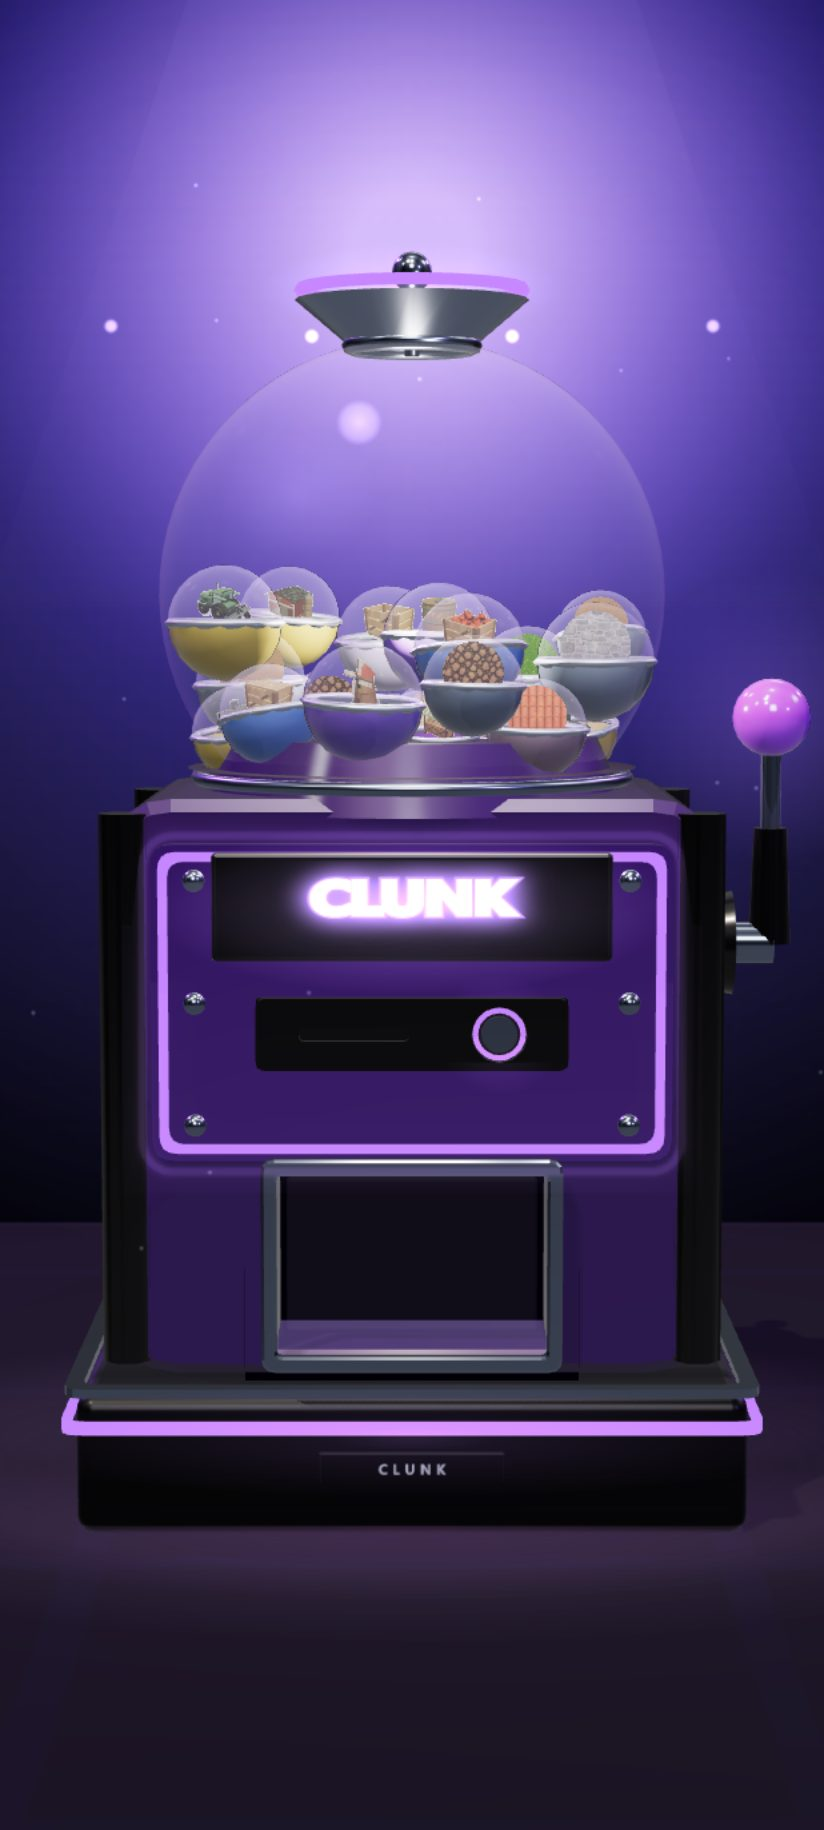
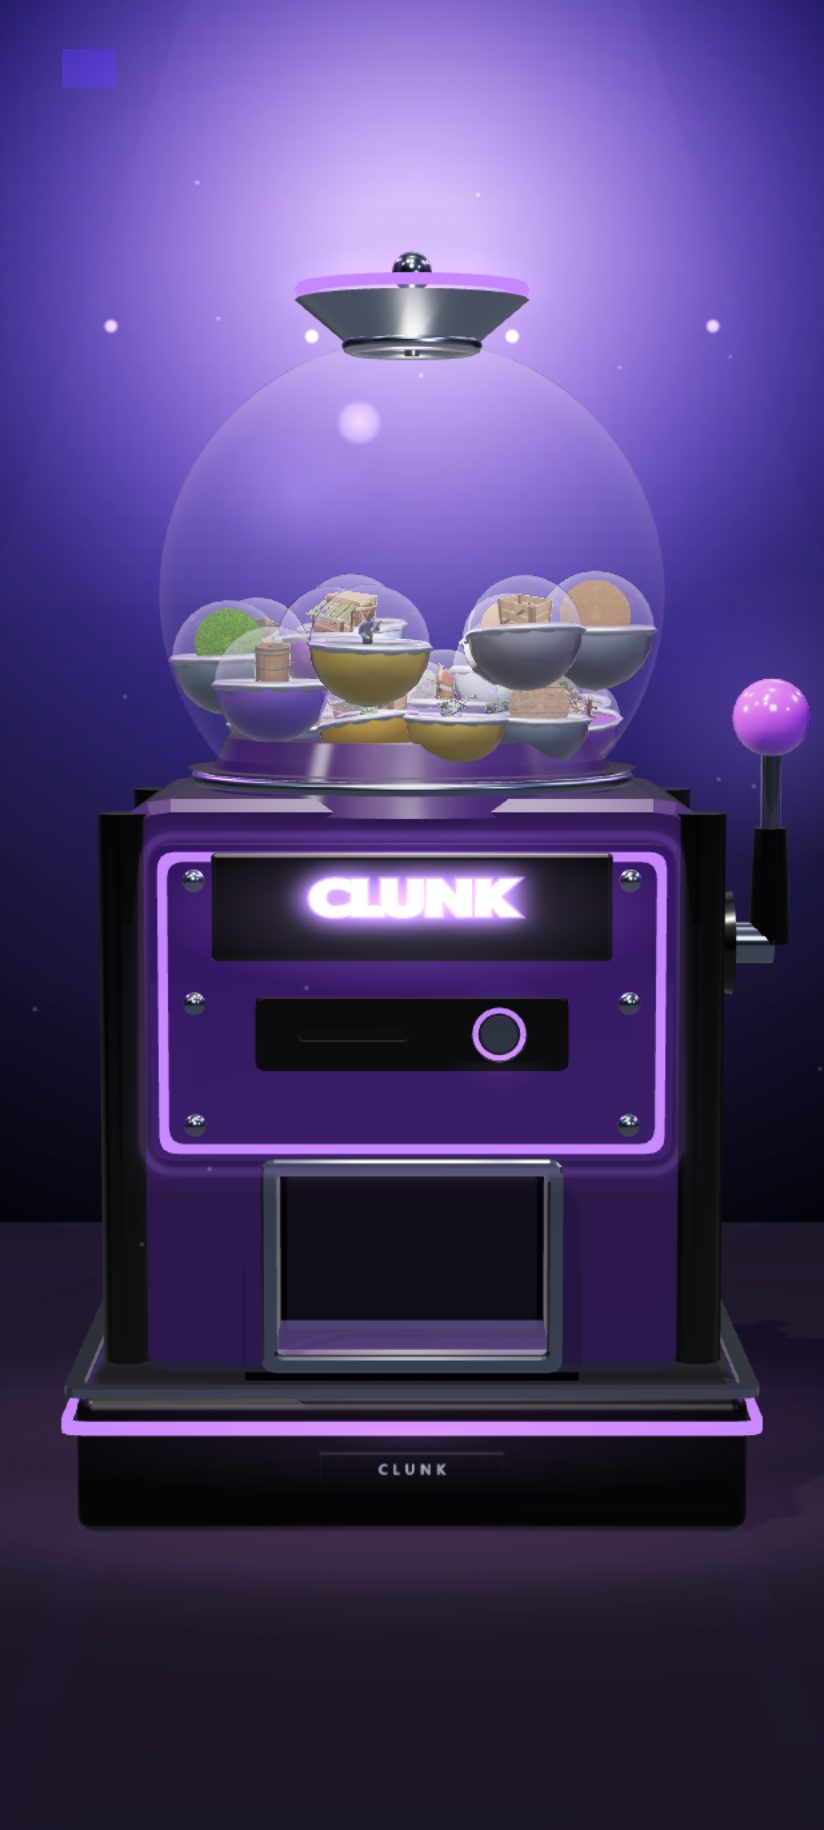
fix: capsules can no longer leak out of the dome and fall through the cabinet; the revealed prize is sized to the screen and turns only under the visitor's hand
Two physics bugs: capsules that never crossed the small dome-centre sphere stayed in
their 'entering' state forever (no glass, no floor) and fell for ever past the front
panel; and the wall clamp ran before the separation pass, so overlaps pushed capsules
through the glass. Now entry is detected by height as well, and the clamp runs last.
Measured over 60 intro and 60 drop frames: capsule pixels on the cabinet 0. The prize
now fills 45 percent of the screen height (bounding sphere) or 32 percent for texture
cards, auto-rotation is gone, and drag rotates it with a short glide; the roaming dome
spotlight stops on the reveal stage.

Changed region(s): [[0.182, 0.3115, 0.8192, 0.4361], [0.0607, 0.0, 0.1517, 0.0623]]

diff --git a/app/components/gacha/gacha-scene.ts b/app/components/gacha/gacha-scene.ts
@@ -159,6 +159,20 @@ const DOME_FLOOR = 2.12;
 // 유리공 높이의 3분의 2까지 찬다.
 const CAPSULE_RADIUS = 0.144;
 /**
+ * 쏟아져 들어오는 알이 "통 안" 으로 넘어가는 높이(돔 중심 위 0.42 m).
+ *
+ * 2026-09-03 11라운드: 예전에는 돔 중심에서 0.446 m 안에 들어와야 통에 들어온 것으로
+ * 쳤다. 그런데 쏟아지는 동안 겹침 밀어내기가 알을 옆으로 밀어(반지름 0.51~0.57) 그
+ * 작은 공을 아예 스치지 못하는 알이 마흔 중 여섯이나 나왔다. 그 알들은 유리 벽도
+ * 바닥도 없는 채로 영원히 떨어져 몸통을 통째로 지나갔고, 알 겉면(중심 반지름 0.57 +
+ * 0.176)이 앞판(z 0.628)보다 앞으로 나와 보라 도장 위에 떠 있는 것으로 찍혔다
+ * (라이브 첫 화면, 영상 프레임 둘 다). 그래서 판정을 높이로 바꾼다 — 높이는 떨어지는
+ * 동안 단조롭게 줄어들므로 이 문턱은 어떤 프레임 간격에서도 반드시 넘어간다.
+ * 유리공 안쪽 꼭대기(2.62 + 0.59 = 3.21)보다 조금 낮게 두어, 옆으로 밀린 알이 잡힐 때
+ * 벽으로 끌려 들어가는 거리가 6 cm 를 넘지 않는다.
+ */
+const DOME_ENTRY_Y = DOME_CENTER.y + 0.42;
+/**
  * 배출구 안에 캡슐이 눕는 자리.
  * 2026-09-03: 배출구를 몸통 아래쪽(크롬 테 안쪽 y 0.58~0.98)으로 옮기면서 같이 내려왔다.
  * 알 반지름이 0.194 이므로 0.78 이면 위아래가 테 안에 딱 들어온다.
@@ -170,6 +184,30 @@ const TRAY = new THREE.Vector3(0, 0.77, 0.53);
  * 상품은 예전과 같은 크기로 보인다. 높이는 그 깊이에서의 화면 한가운데다.
  */
 const STAGE_FRONT = new THREE.Vector3(0, 2.1, 4.5);
+
+/** 공개 무대에서 상품이 서는, 카메라로부터의 거리(m). */
+const PRIZE_DISTANCE = 1.9;
+/**
+ * 공개 무대에서 상품이 차지하는 화면 세로 비율.
+ *
+ * 2026-09-03 11라운드: 운영자가 "상품이 너무 크다 — 텍스처 판이 화면을 다 덮는다" 고
+ * 했다. 그전에는 3D 모델의 가장 긴 변을 0.78 m, 카드를 1.05 m 로 못박아 두었는데,
+ * 카메라 앞 1.9 m 에서 화면 세로가 담는 길이가 1.162 m(세로 화각 34°)이므로 카드는
+ * 화면 세로의 90%, 모서리로 선 모델은 100%를 넘었다. 크기를 길이가 아니라 화면 비율로
+ * 정하면 가로·세로 어느 화면에서도(390 포함) 같은 크기로 보인다 — 세로 화각은 화면
+ * 비율과 무관하고, 상품은 늘 카메라에서 같은 거리에 서기 때문이다.
+ * 모델은 바운딩 구 지름이, 카드는 판 높이가 이 비율이다.
+ */
+const PRIZE_SCREEN = { model: 0.45, card: 0.32 } as const;
+/** 상품을 손으로 돌리는 감도(라디안/픽셀)와 위아래로 젖힐 수 있는 한계(35°). */
+const PRIZE_DRAG = {
+  yaw: 0.0075,
+  pitch: 0.005,
+  pitchLimit: (35 * Math.PI) / 180,
+  /** 손을 뗀 순간 남는 속도의 몫과 그 속도가 잦아드는 빠르기. 미끄러짐은 20° 안쪽이다. */
+  glide: 0.3,
+  decay: 9,
+} as const;
 
 /**
  * 카메라 자리. 받침이 바닥에 닿는 자리부터 투입구 꼭대기까지가 한 화면에 들어와야 한다.
@@ -1790,6 +1828,7 @@ export function createGachaScene(
 
   const MAX_CAPSULES = Math.max(1, quality.capsules);
   const pile = new THREE.Group();
+  pile.name = "capsule-pile";
   machine.add(pile);
 
   /* 알 안에 선 진짜 상품 -----------------------------------------------------
@@ -1852,6 +1891,8 @@ export function createGachaScene(
   const quaternionScratch = new THREE.Quaternion();
   const billboardScratch = new THREE.Quaternion();
   const scaleScratch = new THREE.Vector3();
+  /** 알을 유리 안으로 도로 넣을 때 쓰는 임시 벡터. 매 프레임 마흔 번 도니 새로 만들지 않는다. */
+  const confineScratch = new THREE.Vector3();
 
   function ensureCapsules(count: number): void {
     capsuleCount = Math.max(0, Math.min(MAX_CAPSULES, count));
@@ -1996,6 +2037,7 @@ export function createGachaScene(
   prizeTopMesh.castShadow = true;
   prizeBottomMesh.castShadow = true;
   prize.group.add(prizeTopMesh, prizeBottomMesh, prizeRingMesh);
+  prize.group.name = "prize-capsule";
   prize.group.visible = false;
   prize.group.scale.setScalar(1.55);
   reveal.add(prize.group);
@@ -2086,6 +2128,14 @@ export function createGachaScene(
     prizeArtLoaded = false;
   }
 
+  /**
+   * 카메라 앞 PRIZE_DISTANCE 에서 화면 세로의 fraction 만큼이 되는 실제 길이(m).
+   * 세로 화각은 화면 비율과 무관하므로 1440 에서도 390 에서도 같은 값이 나온다.
+   */
+  function prizeSpan(fraction: number): number {
+    return 2 * PRIZE_DISTANCE * Math.tan((camera.fov * Math.PI) / 360) * fraction;
+  }
+
   /* 상태 ------------------------------------------------------------------- */
   let stage: SceneStage = "idle";
   let stageTime = 0;
@@ -2138,6 +2188,69 @@ export function createGachaScene(
   let puffTime = -1;
   let knobGlint = -1;
 
+  /* 손으로 돌려 보는 상품 ---------------------------------------------------
+     2026-09-03 11라운드: 운영자가 "상품이 제멋대로 도는 게 싫다" 고 했다. 저 혼자 도는
+     회전을 없애고, 끄는 대로 따라오게 한다 — 가로로 끌면 yaw, 세로로 끌면 pitch(±35°),
+     놓으면 아주 짧게 미끄러지다 완전히 선다. 손이 없으면 그림은 한 픽셀도 바뀌지 않는다.
+     휠은 받지 않는다(스크롤이 곧 카메라라서 확대와 싸운다). */
+  let prizeYaw = 0;
+  let prizePitch = 0;
+  let prizeYawRate = 0;
+  let prizePitchRate = 0;
+  let prizeDragging = false;
+  let prizePointerId = -1;
+  let prizeLastX = 0;
+  let prizeLastY = 0;
+  /** 무대가 손을 받는 중인지. 공개 무대에서만 켠다 — 그 밖에는 캔버스가 손을 통과시킨다. */
+  let prizeGrabbable = false;
+
+  function resetPrizeSpin(): void {
+    prizeYaw = 0;
+    prizePitch = 0;
+    prizeYawRate = 0;
+    prizePitchRate = 0;
+  }
+
+  const canvas = renderer.domElement;
+  const onPrizeDown = (event: PointerEvent): void => {
+    if (!prizeGrabbable || event.button !== 0) return;
+    prizeDragging = true;
+    prizePointerId = event.pointerId;
+    prizeLastX = event.clientX;
+    prizeLastY = event.clientY;
+    prizeYawRate = 0;
+    prizePitchRate = 0;
+    // 무대 안에서만 처리한다 — 손가락이 화면 밖으로 나가도 필름이 따라 스크롤되지 않는다.
+    try { canvas.setPointerCapture(event.pointerId); } catch { /* 캡처를 못 해도 끌기는 된다 */ }
+    event.preventDefault();
+  };
+  const onPrizeMove = (event: PointerEvent): void => {
+    if (!prizeDragging || event.pointerId !== prizePointerId) return;
+    const dx = event.clientX - prizeLastX;
+    const dy = event.clientY - prizeLastY;
+    prizeLastX = event.clientX;
+    prizeLastY = event.clientY;
+    prizeYaw += dx * PRIZE_DRAG.yaw;
+    prizePitch = Math.max(-PRIZE_DRAG.pitchLimit, Math.min(PRIZE_DRAG.pitchLimit, prizePitch + dy * PRIZE_DRAG.pitch));
+    // 놓았을 때 미끄러질 만큼의 속도. 한 번의 움직임을 1/60 초로 본다.
+    prizeYawRate = dx * PRIZE_DRAG.yaw * 60;
+    prizePitchRate = dy * PRIZE_DRAG.pitch * 60;
+    event.preventDefault();
+  };
+  const onPrizeUp = (event: PointerEvent): void => {
+    if (event.pointerId !== prizePointerId) return;
+    prizeDragging = false;
+    prizePointerId = -1;
+    // 손을 뗀 뒤에는 아주 조금만 미끄러진다 — 던져 놓은 팽이가 되면 "제멋대로 도는" 그것이다.
+    prizeYawRate *= PRIZE_DRAG.glide;
+    prizePitchRate *= PRIZE_DRAG.glide;
+    try { canvas.releasePointerCapture(event.pointerId); } catch { /* 이미 놓였으면 그만 */ }
+  };
+  canvas.addEventListener("pointerdown", onPrizeDown);
+  canvas.addEventListener("pointermove", onPrizeMove);
+  canvas.addEventListener("pointerup", onPrizeUp);
+  canvas.addEventListener("pointercancel", onPrizeUp);
+
   function setStage(next: SceneStage): void {
     stage = next;
     stageTime = 0;
@@ -2156,6 +2269,8 @@ export function createGachaScene(
       }
     }
     if (next === "impact") {
+      // 새 상품은 늘 정면으로 선다 — 앞 사람이 돌려 놓은 각도가 남아 있으면 안 된다.
+      resetPrizeSpin();
       prize.group.visible = true;
       prize.group.scale.setScalar(1.55);
       prizeTopMesh.position.set(0, 0, 0);
@@ -2169,6 +2284,7 @@ export function createGachaScene(
       sparkMaterial.opacity = 0;
     }
     if (next === "idle") {
+      resetPrizeSpin();
       prize.group.visible = false;
       prizeArt.visible = false;
       burstGroup.visible = false;
@@ -2200,7 +2316,15 @@ export function createGachaScene(
         capsule.position.addScaledVector(capsule.velocity, dt);
         capsule.rotation.x += capsule.spin.x * dt * 2.4;
         capsule.rotation.z += capsule.spin.z * dt * 2.4;
-        if (capsule.position.distanceTo(DOME_CENTER) < DOME_INNER - CAPSULE_RADIUS) capsule.entering = false;
+        // 통 안에 들어섰는지. 유리 안쪽에 들어오면 그 순간이고, 옆으로 밀려 그 공을
+        // 스치지 못했더라도 목 아래로 내려왔으면 무조건 통 안이다 — 높이는 떨어지는
+        // 동안 반드시 줄어드니 이 문턱은 절대로 건너뛰어지지 않는다.
+        if (
+          capsule.position.distanceTo(DOME_CENTER) < DOME_INNER
+          || capsule.position.y <= DOME_ENTRY_Y
+        ) {
+          capsule.entering = false;
+        }
         continue;
       }
       if (!agitated) {
@@ -2274,6 +2398,28 @@ export function createGachaScene(
           first.x -= nx * push; first.y -= ny * push; first.z -= nz * push;
           second.x += nx * push; second.y += ny * push; second.z += nz * push;
         }
+      }
+    }
+
+    /**
+     * 밀어낸 뒤에 유리 벽과 바닥에 한 번 더 도로 넣는다.
+     *
+     * 2026-09-03 11라운드: 벽에 넣는 일이 밀어내기보다 먼저였다. 밀어내기는 속도가 아니라
+     * 자리를 직접 옮기므로, 먼저 벽에 넣어 봐야 그 다음 여섯 번의 밀어냄이 알을 유리 밖으로
+     * 그대로 내보냈다 — 가만히 있을 때도 겉면이 중심에서 0.80 까지(유리 0.74) 나갔고,
+     * 레버를 당겨 흔드는 순간에는 0.97 까지 튀어 앞판 위에 757 px 로 찍혔다.
+     * 여기서는 자리만 고친다(속도는 위에서 이미 튕겼다).
+     */
+    for (let index = 0; index < capsuleCount; index += 1) {
+      const capsule = capsules[index];
+      if (capsule.entering) continue;
+      const floorY = DOME_FLOOR + CAPSULE_RADIUS * capsule.scale;
+      if (capsule.position.y < floorY) capsule.position.y = floorY;
+      confineScratch.copy(capsule.position).sub(DOME_CENTER);
+      const distance = confineScratch.length();
+      const wall = DOME_INNER - CAPSULE_RADIUS * (capsule.scale - 1);
+      if (distance > wall) {
+        capsule.position.copy(DOME_CENTER).addScaledVector(confineScratch, wall / distance);
       }
     }
 
@@ -2594,6 +2740,11 @@ export function createGachaScene(
        움직임을 줄여 달라는 설정에서는 이 전부가 0 이다(색이 바뀌는 반응만 남는다). */
     const sway = reduced ? 0 : 1;
     pointerEased.lerp(pointer, reduced ? 1 : Math.min(1, dt * 4));
+    // 충분히 가까워지면 딱 붙인다. 끝없이 수렴만 하면 손을 뗀 화면이 영원히 아주 조금씩
+    // 바뀌어(2026-09-03 11라운드: 공개 무대에서 5초 사이 81 px), 가만히 둔 화면이 서지 않는다.
+    if (Math.abs(pointerEased.x - pointer.x) < 1e-4 && Math.abs(pointerEased.y - pointer.y) < 1e-4) {
+      pointerEased.copy(pointer);
+    }
     const shake = cameraShake > 0 ? cameraShake : 0;
     // 스크롤 자리 — 공개 무대(캡슐이 갈라지는 순간부터)에서는 상품이 카메라 앞 정해진
     // 자리에 서므로 첫 자리로 돌아간다.
@@ -2640,7 +2791,9 @@ export function createGachaScene(
     }
 
     // 돔 위를 도는 반짝임과 유리에 맺힌 반사.
-    if (!reduced) sweep.position.set(Math.cos(clock * 0.6) * 1.15, 3.35, Math.sin(clock * 0.6) * 1.15);
+    // 돔 위를 도는 반짝임. 공개 무대에서는 멈춘다 — 기계가 사라진 화면에서 이 빛만
+    // 계속 돌면 가만히 둔 상품 위에서 하이라이트가 혼자 기어다닌다(운영자: 완전히 정지).
+    if (!reduced && stage !== "result") sweep.position.set(Math.cos(clock * 0.6) * 1.15, 3.35, Math.sin(clock * 0.6) * 1.15);
     stepHighlights(dt);
     // 더해 그리는 빛 판들은 늘 카메라를 마주 본다. 비스듬히 서면 빛이 아니라 판으로 읽힌다.
     // 기계가 손끝을 따라 돌기 때문에, 카메라 방향을 부모의 회전으로 한 번 되돌려 준다.
@@ -2751,6 +2904,41 @@ export function createGachaScene(
     if (!reduced) stepCapsules(dt, stage === "shake" || stage === "pull");
     writeCapsuleInstances();
 
+    /* 손으로 돌리는 상품 — 공개 무대에서만 캔버스가 손을 받는다. */
+    const grabbable = stage === "result" && prizeArtLoaded;
+    if (grabbable !== prizeGrabbable) {
+      prizeGrabbable = grabbable;
+      // 평소에는 캔버스가 손을 통과시켜야 한다 — 레버·돔 단추와 세로 스크롤이 그 위에 있다.
+      canvas.style.pointerEvents = grabbable ? "auto" : "";
+      // pan-y 로 둔다: 옆으로 시작한 손짓은 통째로 우리 것이 되어(포인터 캡처) 위아래
+      // 성분까지 따라오고, 위아래로 시작한 손짓은 브라우저의 세로 스크롤로 남는다.
+      // none 으로 막으면 세로 화면에서 상품을 본 사람이 페이지 밖으로 나갈 길이 없어진다.
+      canvas.style.touchAction = grabbable ? "pan-y" : "";
+      canvas.style.cursor = grabbable ? "grab" : "";
+      if (!grabbable) prizeDragging = false;
+    }
+    if (prizeDragging) {
+      canvas.style.cursor = "grabbing";
+    } else if (grabbable) {
+      canvas.style.cursor = "grab";
+      // 놓은 뒤의 짧은 미끄러짐. 느려지면 딱 멈춘다 — 가만히 둔 화면은 완전히 정지한다.
+      if (reduced) {
+        prizeYawRate = 0;
+        prizePitchRate = 0;
+      } else if (Math.abs(prizeYawRate) > 0.02 || Math.abs(prizePitchRate) > 0.02) {
+        prizeYaw += prizeYawRate * dt;
+        prizePitch = Math.max(-PRIZE_DRAG.pitchLimit, Math.min(PRIZE_DRAG.pitchLimit, prizePitch + prizePitchRate * dt));
+        const decay = Math.exp(-PRIZE_DRAG.decay * dt);
+        prizeYawRate *= decay;
+        prizePitchRate *= decay;
+        if (Math.abs(prizeYawRate) <= 0.02) prizeYawRate = 0;
+        if (Math.abs(prizePitchRate) <= 0.02) prizePitchRate = 0;
+      } else {
+        prizeYawRate = 0;
+        prizePitchRate = 0;
+      }
+    }
+
     if (stage === "impact") {
       stepDispense(stageTime);
       // 충격 순간의 카메라 흔들림은 없앴다 — 몸통 눌림(squash)만 남는다.
@@ -2776,11 +2964,12 @@ export function createGachaScene(
         prizeRight.crossVectors(prizeForward, camera.up).normalize();
         prizeUp.crossVectors(prizeRight, prizeForward).normalize();
         prizeArt.position.copy(camera.position)
-          .addScaledVector(prizeForward, 1.9)
+          .addScaledVector(prizeForward, PRIZE_DISTANCE)
           .addScaledVector(prizeRight, wide ? -0.3 : 0)
           .addScaledVector(prizeUp, wide ? -0.05 : 0.34);
         prizeArt.scale.setScalar(1);
-        if (!reduced) prizeArt.rotation.y += dt * 0.55;
+        // 손이 돌린 만큼만 돈다. 저 혼자 도는 회전은 없앴다(운영자 지시 2026-09-03).
+        prizeArt.rotation.set(prizePitch, prizeYaw, 0);
       }
     }
 
@@ -2817,8 +3006,10 @@ export function createGachaScene(
    */
   if (typeof window !== "undefined" && /[?&]audit=1/.test(window.location.search)) {
     (window as unknown as { __gachaAudit?: unknown }).__gachaAudit = {
-      THREE, scene, machine, lever, camera, capsules,
+      THREE, scene, machine, lever, camera, capsules, renderer, pile, prize: prize.group, prizeArt,
       dome: { centre: DOME_CENTER, radius: DOME_RADIUS, floor: DOME_FLOOR, capsuleRadius: CAPSULE_RADIUS },
+      // 11라운드: "알이 몸통을 뚫고 보이는가" 를 픽셀로 세려면 알을 껐다 켠 두 장을
+      // 같은 프레임에서 그려 비교해야 한다. 그래서 렌더러와 알 무리를 함께 내보낸다.
     };
   }
 
@@ -2924,15 +3115,13 @@ export function createGachaScene(
         const gltf = await loader.parseAsync(buffer, "");
         const model = gltf.scene;
         const bounds = new THREE.Box3().setFromObject(model);
-        const size = bounds.getSize(new THREE.Vector3());
-        const center = bounds.getCenter(new THREE.Vector3());
-        const longest = Math.max(size.x, size.y, size.z, 1e-4);
-        model.position.set(-center.x, -center.y, -center.z);
+        // 바운딩 "구" 로 맞춘다. 상자의 가장 긴 변으로 맞추면 모서리를 카메라로 돌렸을 때
+        // 대각선(√3배)이 그만큼 커져 화면을 넘긴다 — 어느 각도로 돌려도 크기가 같아야 한다.
+        const sphere = bounds.getBoundingSphere(new THREE.Sphere());
+        model.position.set(-sphere.center.x, -sphere.center.y, -sphere.center.z);
         const wrapper = new THREE.Group();
         wrapper.add(model);
-        // 무대가 화면 전체가 된 뒤로 카메라 앞 1.9 m 에서 보이는 높이는 1.16 m 다. 가장 긴
-        // 변을 0.78 m 로 맞추면 상품이 잘리지 않고, 오른쪽 카드 옆에 선다.
-        wrapper.scale.setScalar(0.78 / longest);
+        wrapper.scale.setScalar(prizeSpan(PRIZE_SCREEN.model) / Math.max(2 * sphere.radius, 1e-4));
         model.traverse((node) => {
           const mesh = node as THREE.Mesh;
           if (mesh.isMesh) { mesh.castShadow = true; mesh.receiveShadow = false; }
@@ -2951,8 +3140,10 @@ export function createGachaScene(
         const texture = await new THREE.TextureLoader().loadAsync(url);
         texture.colorSpace = THREE.SRGBColorSpace;
         disposables.push(texture);
+        // 판 높이를 화면 세로의 32% 로 잡는다. 두께와 모서리는 그 크기에 비례한다.
+        const side = prizeSpan(PRIZE_SCREEN.card);
         const card = new THREE.Mesh(
-          new RoundedBoxGeometry(1.05, 1.05, 0.045, 3, 0.03),
+          new RoundedBoxGeometry(side, side, side * 0.043, 3, side * 0.029),
           [
             new THREE.MeshStandardMaterial({ color: 0x2a3050, roughness: 0.6 }),
             new THREE.MeshStandardMaterial({ color: 0x2a3050, roughness: 0.6 }),
@@ -3010,6 +3201,10 @@ export function createGachaScene(
       return { triangles: renderer.info.render.triangles, calls: renderer.info.render.calls };
     },
     dispose() {
+      canvas.removeEventListener("pointerdown", onPrizeDown);
+      canvas.removeEventListener("pointermove", onPrizeMove);
+      canvas.removeEventListener("pointerup", onPrizeUp);
+      canvas.removeEventListener("pointercancel", onPrizeUp);
       emptyPrizeArt();
       atlas.dispose();
       for (const item of disposables) item.dispose();
